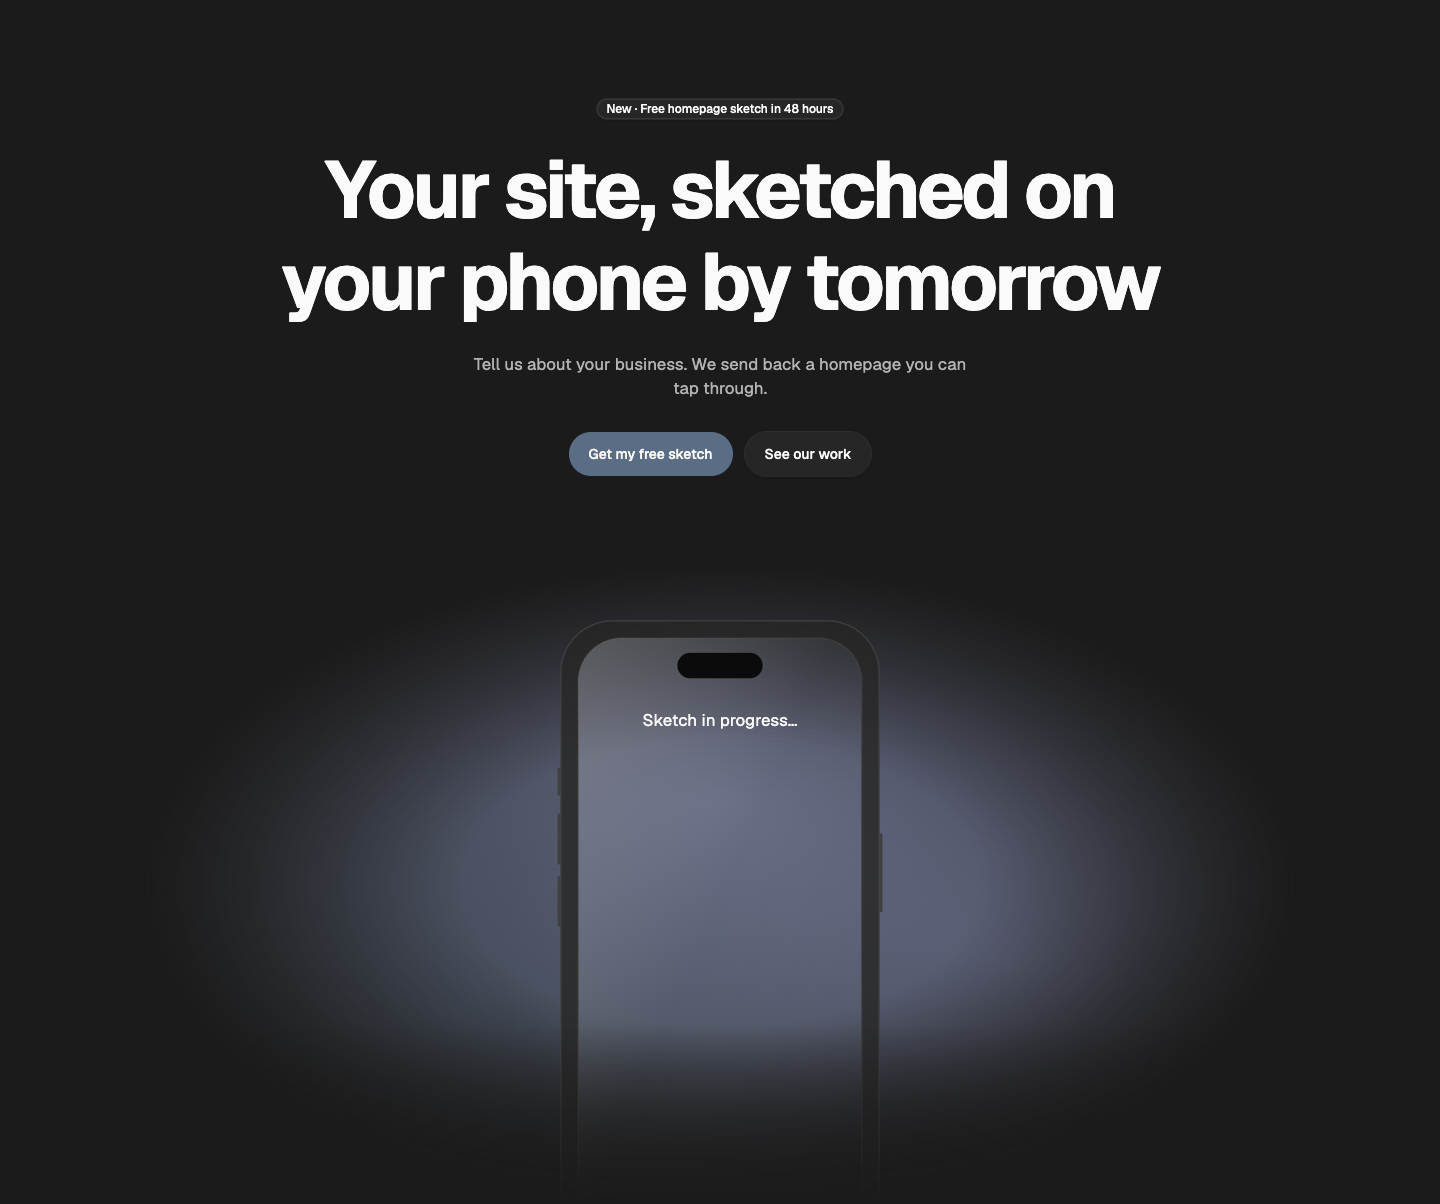
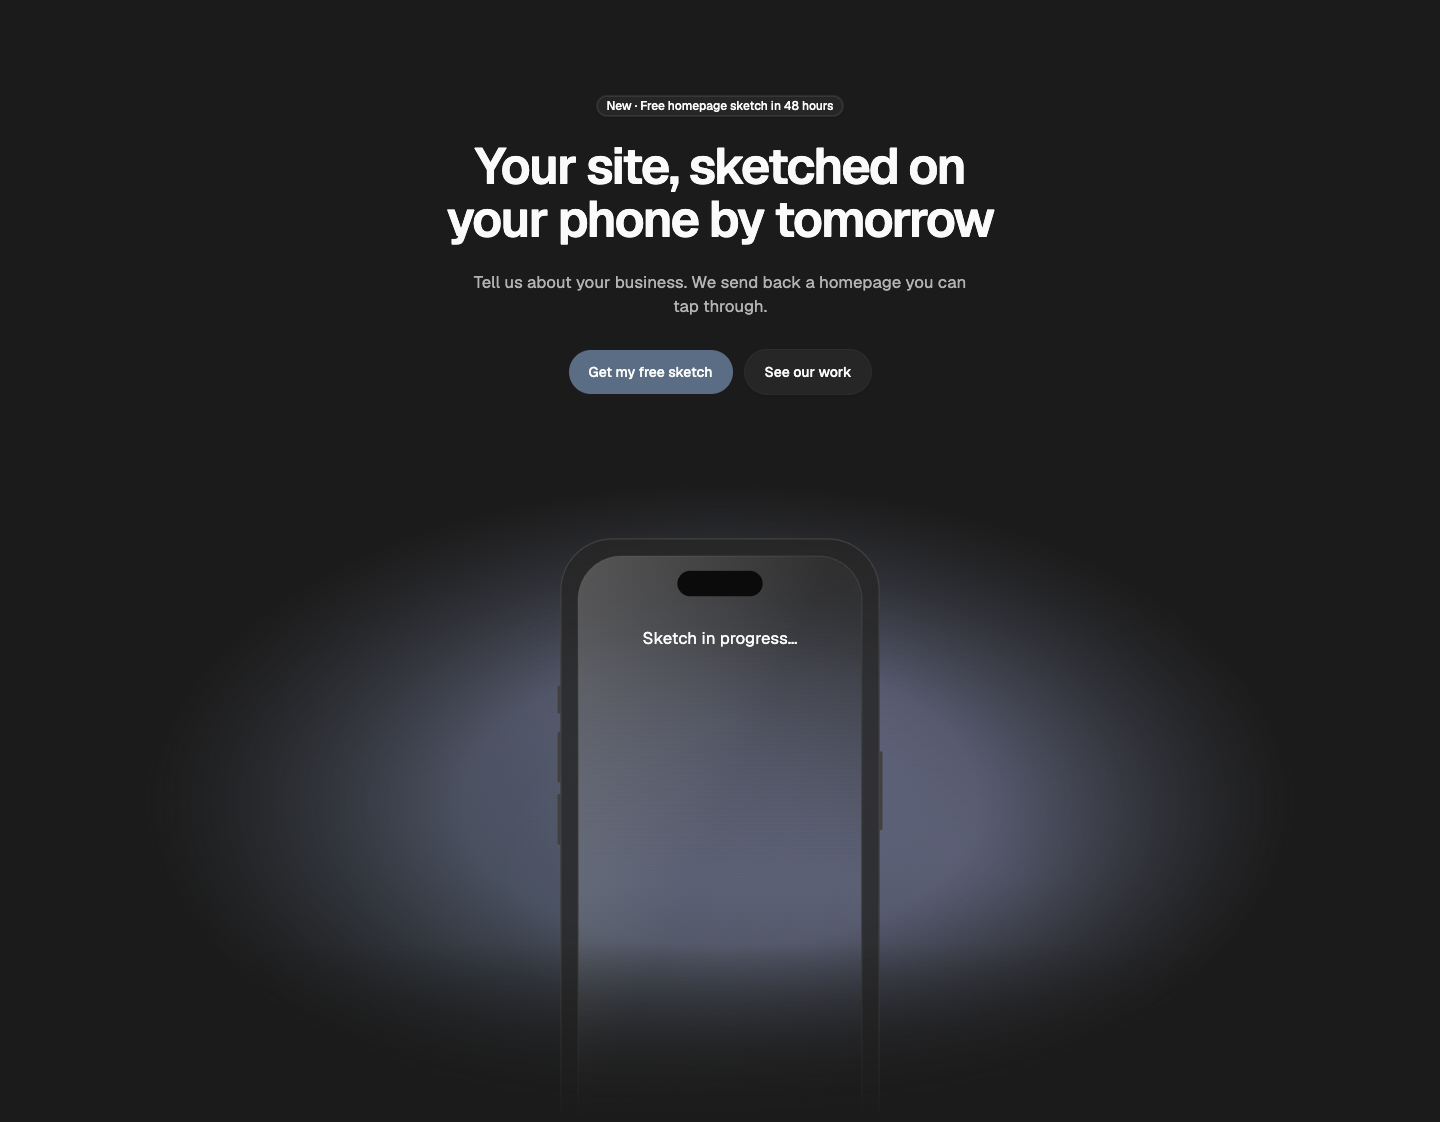
hero/phone-center: review fixes and a narrower, tighter H1
- Product Designer's review: caption on a surface scrim with line-clamp-3 and padding; built-in
  video with Pause/Play (WCAG 2.2.2), no autoplay under reduced motion; CTAs stack full width on
  phones; eyebrow truncates; tighter phone spacing; per-instance SVG gradient id; filled glass with
  no media; exact screen insets; README notes (alt="", lang for hyphens, aria-live).
- Randy: smaller H1 like Lovi's: type-display-2 (32-50px), 11em wide, tracking -0.035em, leading 1.05.

Changed region(s): [[0.1875, 0.0624, 0.8125, 0.4055], [0.375, 0.4679, 0.625, 0.7175]]

diff --git a/patterns/hero/phone-center/HeroPhoneCenter.tsx b/patterns/hero/phone-center/HeroPhoneCenter.tsx
@@ -5,8 +5,8 @@
  * glass screen; an optional caption sits on the screen. Built only from @thewhatmatters/wmds parts.
  * Your Tailwind must scan this file (it does if it sits in your app's source folders).
  */
-import { useId, type ReactNode } from "react";
-import { Badge, cn } from "@thewhatmatters/wmds";
+import { useEffect, useId, useRef, useState, type ReactNode } from "react";
+import { Badge, Button, cn } from "@thewhatmatters/wmds";
 
 export interface HeroPhoneCenterProps {
   /** Slot, optional: a nav above the hero. Leave it empty when the page already has a nav (the usual case). */
@@ -19,58 +19,80 @@ export interface HeroPhoneCenterProps {
   /** Slot, optional: the CTA row (buttons, links, app-store badges). */
   actions?: ReactNode;
   /**
-   * Slot: the photo or video behind the phone. Pass an `<img>` or a muted, looping `<video>` (with a
-   * `poster`); it's cropped to fill the stage. Decorative unless you give it a text alternative.
+   * Slot: the picture behind the phone, usually a decorative `<img alt="">`; it's cropped to fill the
+   * stage. For a video use `video` instead, which adds the pause control moving media needs.
    */
   media?: ReactNode;
-  /** Slot, optional: what sits on the phone's screen, over the media (a caption, a status, an app UI). */
+  /** A looping background video (muted, no sound) with a Pause control. Used instead of `media`. */
+  video?: { src: string; poster?: string };
+  /**
+   * Slot, optional: a short caption on the phone's screen over the media (about 40 characters, 3 lines
+   * at most). It sits on a scrim so it stays readable over any picture. If it changes, wrap it in
+   * `aria-live="polite"`.
+   */
   screen?: ReactNode;
   className?: string;
 }
 
 /* Every class is written out in full (never interpolated) so Tailwind sees it. */
 
-/** Full-width wrapper; the stage's wide media is clipped here, never on a narrower element. */
+/** Full-width wrapper, so nothing scrolls sideways. */
 const rootClasses = "relative w-full overflow-x-clip";
 /** The section lays its content on the WMDS page grid. */
 const sectionClasses = "grid-page relative !py-0";
 /** Centred copy. Nav→eyebrow 48 / 96. */
 const copyClasses = "relative z-10 col-span-full flex flex-col items-center pt-12 text-center lg:pt-24";
-/** WMDS type-display-1 (fluid 40px → 80px), kept to about 12em so a short headline sets in 2–3 lines. */
-const headlineClasses = "type-display-1 min-w-0 max-w-[min(12em,100%)] text-balance [overflow-wrap:anywhere] hyphens-auto";
+/**
+ * A narrow H1, like the phone it sits over: WMDS type-display-2 (fluid 32px → 50px), kept to about 11em
+ * so a short headline sets in 2–3 lines, set tight (-0.035em, line height 1.05) like a display line.
+ * `hyphens-auto` needs the page's `lang`.
+ */
+const headlineClasses =
+  "type-display-2 [--text-display-2-leading:1.05] tracking-[-0.035em] min-w-0 max-w-[min(11em,100%)] text-balance [overflow-wrap:anywhere] hyphens-auto";
 /** Regular weight (type-large is semibold in some WMDS versions). Headline→subhead 24. */
 const subheadClasses = "mt-6 max-w-[36rem] text-pretty font-normal text-muted type-large";
-/** Subhead→CTAs 32. */
-const actionsClasses = "mt-8 flex flex-wrap items-center justify-center gap-3";
+/** Subhead→CTAs 32. On phones the buttons stack full width (up to 20rem); from sm they sit in a row. */
+const actionsClasses =
+  "mt-8 flex w-full max-w-xs flex-col items-stretch gap-3 sm:w-auto sm:max-w-none sm:flex-row sm:flex-wrap sm:items-center sm:justify-center";
 
 /**
  * The stage: the media spans most of the page width and fades out on every side (a mask, so it melts
  * into the page in light and dark). The whole stage fades out at its foot, so the phone sinks into the
  * page like a fold instead of being cut.
- * CTAs→stage 64. Stage height follows the phone (its width × 19.5/9, less the cropped foot).
+ * The stage's mask also bounds the wide media to the stage. CTAs→stage 40 / 64 (phone / desktop).
  */
 const stageClasses =
-  "relative col-span-full mt-16 h-[clamp(26rem,52vw,40rem)] overflow-hidden [mask-image:linear-gradient(to_bottom,black_72%,transparent)]";
+  "relative col-span-full mt-10 h-[clamp(26rem,52vw,40rem)] overflow-hidden [mask-image:linear-gradient(to_bottom,black_72%,transparent)] lg:mt-16";
 const mediaClasses =
   "absolute inset-y-0 left-1/2 w-[min(100vw,72rem)] -translate-x-1/2 " +
   "[mask-image:radial-gradient(closest-side,black_45%,transparent)] " +
   "[&>img]:size-full [&>img]:object-cover [&>video]:size-full [&>video]:object-cover [&>svg]:size-full";
 /** The phone: centred, a little below the stage top, about 300px wide at desktop. */
-const phoneClasses = "absolute top-10 left-1/2 w-[clamp(15rem,24vw,20rem)] -translate-x-1/2 lg:top-14";
-/** The screen area inside the frame (matches the SVG's screen rect), where the `screen` slot sits. */
+const phoneClasses = "absolute top-6 left-1/2 w-[clamp(15rem,24vw,20rem)] -translate-x-1/2 lg:top-14";
+/**
+ * The screen area inside the frame (matches the SVG's screen rect: 22/390 in, radius 53/346 × 53/800).
+ * A scrim in the page's surface colour fades down from the top, so the caption stays readable over any
+ * picture in either theme.
+ */
 const screenClasses =
-  "absolute inset-x-[5.4%] top-[2.6%] bottom-[2.6%] flex flex-col items-center overflow-hidden rounded-[13%/6%] " +
-  "pt-[22%] text-center text-fg";
+  "absolute inset-x-[5.64%] top-[2.6%] bottom-[2.6%] flex flex-col items-center overflow-hidden rounded-[15.3%/6.6%] " +
+  "px-[10%] pt-[22%] text-center text-fg " +
+  "before:absolute before:inset-x-0 before:top-0 before:h-1/2 before:bg-[linear-gradient(to_bottom,color-mix(in_srgb,var(--color-surface)_88%,transparent),transparent)]";
+const screenTextClasses = "relative line-clamp-3 type-large font-normal";
+/** The Pause / Play control for `video`: top right of the stage, where the stage's fade doesn't reach. */
+const videoControlClasses = "absolute top-0 right-0 z-10";
 
 /**
  * An iPhone outline: a thin rounded bezel in the page's surface colour, a glass screen that lets the
  * media through with a faint sheen, the Dynamic Island, and the side buttons. Drawn at 390 × 844.
  */
-function PhoneFrame() {
+function PhoneFrame({ id, empty }: { id: string; empty: boolean }) {
+  const sheen = `${id}-sheen`;
   return (
-    <svg viewBox="0 0 390 844" className="block h-auto w-full overflow-visible" aria-hidden focusable="false">
+    // Above the screen content (z-10), so the bezel, glass and Dynamic Island sit over the caption's scrim.
+    <svg viewBox="0 0 390 844" className="pointer-events-none relative z-10 block h-auto w-full overflow-visible" aria-hidden focusable="false">
       <defs>
-        <linearGradient id="hero-phone-sheen" x1="0" y1="0" x2="1" y2="1">
+        <linearGradient id={sheen} x1="0" y1="0" x2="1" y2="1">
           <stop offset="0" stopColor="white" stopOpacity="0.22" />
           <stop offset="0.45" stopColor="white" stopOpacity="0.04" />
           <stop offset="1" stopColor="white" stopOpacity="0" />
@@ -90,8 +112,12 @@ function PhoneFrame() {
         d="M64 1h262a63 63 0 0 1 63 63v716a63 63 0 0 1-63 63H64A63 63 0 0 1 1 780V64A63 63 0 0 1 64 1Z
            M75 22h240a53 53 0 0 1 53 53v694a53 53 0 0 1-53 53H75a53 53 0 0 1-53-53V75a53 53 0 0 1 53-53Z"
       />
+      {/* With no media behind it, the glass is filled so it still reads as a screen */}
+      {empty ? (
+        <rect x="22" y="22" width="346" height="800" rx="53" fill="color-mix(in srgb, var(--color-surface) 92%, var(--color-text-primary))" />
+      ) : null}
       {/* Glass: a faint sheen over the media */}
-      <rect x="22" y="22" width="346" height="800" rx="53" fill="url(#hero-phone-sheen)" />
+      <rect x="22" y="22" width="346" height="800" rx="53" fill={`url(#${sheen})`} />
       <rect x="22" y="22" width="346" height="800" rx="53" fill="none" stroke="black" strokeOpacity="0.18" />
       {/* Dynamic Island */}
       <rect x="143" y="40" width="104" height="31" rx="15.5" fill="#0b0b0c" />
@@ -99,8 +125,47 @@ function PhoneFrame() {
   );
 }
 
-export function HeroPhoneCenter({ nav, eyebrow, headline, subhead, actions, media, screen, className }: HeroPhoneCenterProps) {
+/**
+ * A muted, looping background video with a Pause / Play control (WCAG 2.2.2). It doesn't start on its own
+ * when the visitor prefers reduced motion; the control still lets them play it.
+ */
+function HeroVideo({ src, poster }: { src: string; poster?: string }) {
+  const ref = useRef<HTMLVideoElement>(null);
+  const [playing, setPlaying] = useState(false);
+
+  useEffect(() => {
+    const video = ref.current;
+    if (!video || window.matchMedia("(prefers-reduced-motion: reduce)").matches) return;
+    video.play().then(() => setPlaying(true), () => setPlaying(false));
+  }, [src]);
+
+  function toggle() {
+    const video = ref.current;
+    if (!video) return;
+    if (video.paused) video.play().then(() => setPlaying(true), () => setPlaying(false));
+    else {
+      video.pause();
+      setPlaying(false);
+    }
+  }
+
+  return (
+    <>
+      <div className={mediaClasses} data-hero-media="">
+        <video ref={ref} src={src} poster={poster} muted loop playsInline preload="metadata" aria-hidden />
+      </div>
+      <div className={videoControlClasses}>
+        <Button role="secondary" size="sm" className="min-h-11" onClick={toggle}>
+          {playing ? "Pause background video" : "Play background video"}
+        </Button>
+      </div>
+    </>
+  );
+}
+
+export function HeroPhoneCenter({ nav, eyebrow, headline, subhead, actions, media, video, screen, className }: HeroPhoneCenterProps) {
   const headingId = useId();
+  const frameId = useId().replace(/:/g, "");
 
   return (
     <div className={cn(rootClasses, className)} data-pattern="hero-phone-center">
@@ -108,8 +173,11 @@ export function HeroPhoneCenter({ nav, eyebrow, headline, subhead, actions, medi
       <section aria-labelledby={headingId} className={sectionClasses}>
         <div className={copyClasses}>
           {eyebrow != null ? (
-            <div className="mb-6">
-              <Badge variant="neutral">{eyebrow}</Badge>
+            // Keep it to about 30 characters; a longer line is cut with an ellipsis rather than spill.
+            <div className="mb-6 flex max-w-full justify-center">
+              <Badge variant="neutral">
+                <span className="block max-w-[min(30ch,80vw)] truncate">{eyebrow}</span>
+              </Badge>
             </div>
           ) : null}
           <h1 id={headingId} className={headlineClasses}>
@@ -120,16 +188,18 @@ export function HeroPhoneCenter({ nav, eyebrow, headline, subhead, actions, medi
         </div>
 
         <div className={stageClasses} data-hero-stage="">
-          {media != null ? (
+          {video != null ? (
+            <HeroVideo src={video.src} poster={video.poster} />
+          ) : media != null ? (
             <div className={mediaClasses} data-hero-media="">
               {media}
             </div>
           ) : null}
           <div className={phoneClasses}>
-            <PhoneFrame />
+            <PhoneFrame id={frameId} empty={video == null && media == null} />
             {screen != null ? (
               <div className={screenClasses} data-hero-screen="">
-                {screen}
+                <div className={screenTextClasses}>{screen}</div>
               </div>
             ) : null}
           </div>

diff --git a/patterns/hero/phone-center/example.tsx b/patterns/hero/phone-center/example.tsx
@@ -55,7 +55,7 @@ export function HeroPhoneCenterExample(props: Partial<HeroPhoneCenterProps>) {
         </>
       }
       media={<ExampleMedia />}
-      screen={<p className="px-4 type-large font-normal">Sketch in progress…</p>}
+      screen="Sketch in progress…"
       {...props}
     />
   );

diff --git a/patterns/hero/phone-center/README.md b/patterns/hero/phone-center/README.md
@@ -23,8 +23,8 @@ import { HeroPhoneCenter } from "./HeroPhoneCenter";
   headline="Science-backed skin care you can trust"
   subhead="Focused on you and your skin."
   actions={<Button role="primary" render={<a href="/app" />}>Get the app</Button>}
-  media={<video src="/hero.mp4" poster="/hero.jpg" autoPlay muted loop playsInline />}
-  screen={<p className="type-large font-normal">Face scan in progress…</p>}
+  video={{ src: "/hero.mp4", poster: "/hero.jpg" }}   // or media={<img src="/hero.jpg" alt="" />}
+  screen="Face scan in progress…"
 />
 ```
 
@@ -33,16 +33,17 @@ import { HeroPhoneCenter } from "./HeroPhoneCenter";
 | Prop | Kind | Notes |
 |---|---|---|
 | `nav` | slot, optional | Leave it empty when the page already has a nav (the usual case). For a standalone page pass a `<SiteNav>` |
-| `eyebrow` | ReactNode | A short line shown as a pill (Badge) |
-| `headline` | ReactNode | The page's only H1. Static. Set in 2–3 lines (about 12em wide) |
+| `eyebrow` | ReactNode | A short line shown as a pill (Badge). About 30 characters; longer is cut with an ellipsis |
+| `headline` | ReactNode | The page's only H1, narrow like the phone: WMDS `type-display-2` (32px → 50px) set tight (-0.035em, line height 1.05), about 11em wide, 2–3 lines. Static. `hyphens-auto` needs the page's `lang` |
 | `subhead` | ReactNode | Regular weight, about 36rem wide |
-| `actions` | slot, optional | The CTA row: buttons, links or app-store badges |
-| `media` | slot | The photo or video behind the phone: an `<img>` or a muted, looping, `playsInline` `<video>` with a `poster`. Cropped to fill the stage (`object-cover`) and faded at every edge. Decorative unless you give it a text alternative |
-| `screen` | slot, optional | What sits on the phone's screen over the media: a caption, a status line, or a real app screen |
+| `actions` | slot, optional | The CTA row: at most two buttons (make a third a text link) or app-store badges. On phones they stack full width |
+| `media` | slot | The picture behind the phone, usually decorative: `<img src alt="">` (give real alt text only if it carries meaning). Cropped to fill the stage (`object-cover`) and faded at every edge |
+| `video` | `{ src, poster? }`, optional | A looping background video instead of `media`: muted, `playsInline`, hidden from screen readers, with a **Pause / Play** button (WCAG 2.2.2). It doesn't start on its own under `prefers-reduced-motion` |
+| `screen` | slot, optional | A short caption on the phone's screen: about 40 characters, 3 lines at most, on a scrim so it reads over any picture. If it changes (a status), wrap it in `aria-live="polite"` |
 
 ## Knobs
 
-- `--text-display-1-size`: the headline uses WMDS `type-display-1` (fluid 40px → 80px).
+- `--text-display-2-size`: the headline uses WMDS `type-display-2` (fluid 32px → 50px).
 - The phone's width is `clamp(15rem, 24vw, 20rem)` and the stage's height `clamp(26rem, 52vw, 40rem)`, in `phoneClasses` and `stageClasses`: change them together.
 - The phone frame takes its bezel from `--color-surface` and its outline from `--color-border-emphasized`, so it follows the theme and the brand kit.
 
@@ -52,17 +53,17 @@ The first item is the example the gallery's Copy prompt uses.
 
 - **App screen instead of a caption:** put a screenshot or a live UI in `screen`, and drop or dim `media`.
 - **Different copy:** change the props; keep the headline to about three lines.
-- **Video:** pass a muted, looping, `playsInline` `<video>` with a `poster`. Pause it under `prefers-reduced-motion` in your page (the pattern can't).
-- **No media:** leave `media` empty; the phone stands on the page alone.
+- **Video:** pass `video={{ src, poster }}`; the pattern adds the Pause / Play button and holds it still under reduced motion.
+- **No media:** leave `media` and `video` empty; the phone stands on the page alone, its screen filled.
 - **App-store badges:** put them in `actions` (official badge artwork, each a link with an accessible name).
 - **Animation:** none by default. Add it in your copy (e.g. ease the phone up into place with `motion`).
 
 ## Spacing
 
-Nav→eyebrow 48 / 96 (phone / desktop), headline→subhead 24, subhead→CTAs 32, CTAs→stage 64. The stage is `clamp(26rem, 52vw, 40rem)` tall and fades out over its last 28%.
+Nav→eyebrow 48 / 96 (phone / desktop), headline→subhead 24, subhead→CTAs 32, CTAs→stage 40 / 64. The stage is `clamp(26rem, 52vw, 40rem)` tall and fades out over its last 28%.
 
 ## WMDS-GAPs
 
-- No WMDS media component (image or video with poster, reduced-motion pause); the `media` slot takes plain `<img>` / `<video>`.
+- No WMDS media component (image or video with poster, a pause control, reduced-motion handling); the pattern carries its own small video player until WMDS has one.
 - No WMDS device frame; the iPhone outline is SVG inside the pattern.
 - Checked against **@thewhatmatters/wmds 0.4.27** (npm). In 0.4.27 `type-large` is semibold, so the subhead sets `font-normal` itself.
